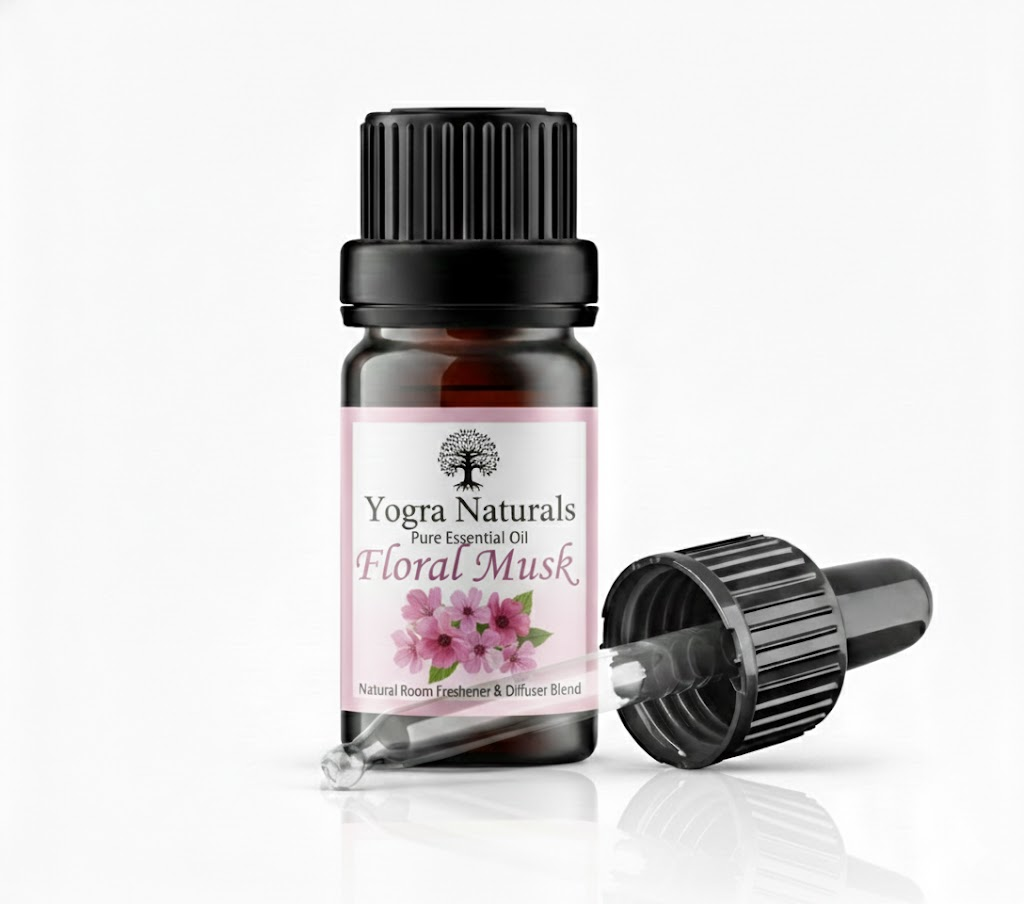
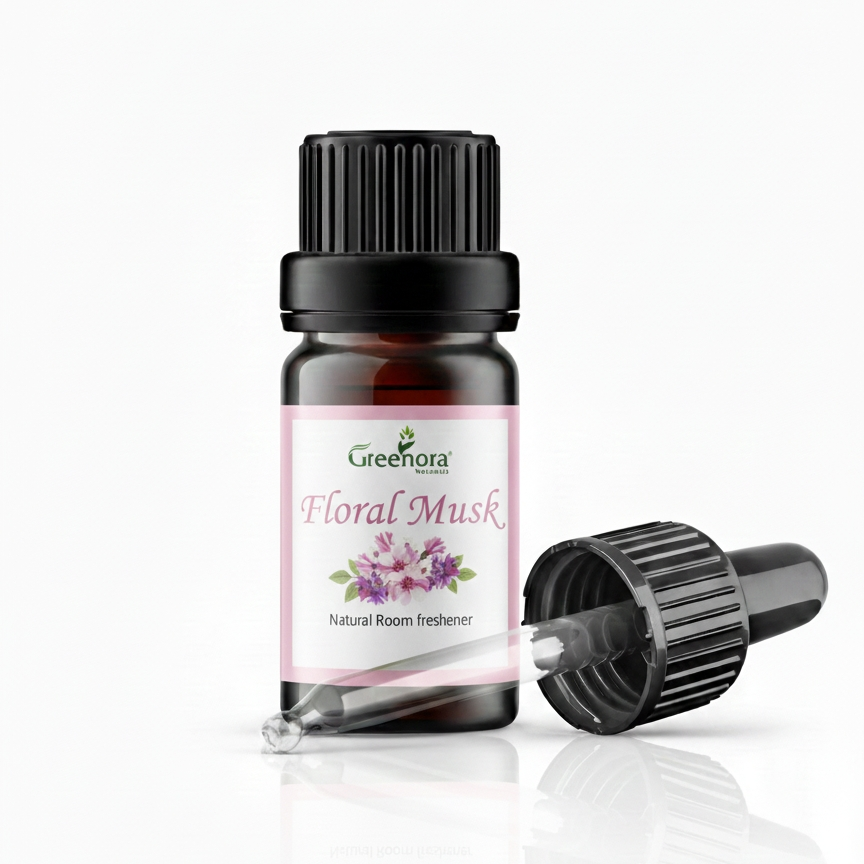
diffuser oil img changed

Changed region(s): [[0.2812, 0.0938, 0.9688, 0.9375]]

diff --git a/Diffuser oils/diffuser.html b/Diffuser oils/diffuser.html
@@ -67,7 +67,7 @@
   </div>
 
   <div class="info">
-    <div class="brand">YOGRA • Natural Essences</div>
+    <div class="brand">GREENORA • Natural Essences</div>
 
     <h3>Floral Musk Oil</h3>
 
@@ -116,7 +116,7 @@
   </div>
 
   <div class="info">
-    <div class="brand">YOGRA • Natural Essences</div>
+    <div class="brand">GREENORA • Natural Essences</div>
 
     <h3>Floral Oil</h3>
 
@@ -162,12 +162,12 @@
     <!-- 3 -->
 <div class="fragrance-card">
   <div class="imageWrap">
-    <img src="../Diffuser oils/Jasmine.jpg"
+    <img src="../Diffuser oils/Jasmin.jpg"
          alt="Jasmine Diffuser Oil">
   </div>
 
   <div class="info">
-    <div class="brand">YOGRA • Natural Essences</div>
+    <div class="brand">GREENORA • Natural Essences</div>
 
     <h3>Jasmine Diffuser Oil</h3>
 
@@ -213,12 +213,12 @@
     <!-- 4 -->
     <div class="fragrance-card">
   <div class="imageWrap">
-    <img src="../Diffuser oils/Lavender.jpg"
+    <img src="../Diffuser oils/lavender.jpg"
          alt="Lavender Diffuser Oil">
   </div>
 
   <div class="info">
-    <div class="brand">YOGRA • Natural Essences</div>
+    <div class="brand">GREENORA • Natural Essences</div>
 
     <h3>Lavender Diffuser Oil</h3>
 
@@ -264,12 +264,12 @@
     <!-- 5 -->
     <div class="fragrance-card">
   <div class="imageWrap">
-    <img src="../Diffuser oils/Lemon grass.jpg"
+    <img src="../Diffuser oils/lemon grass.jpg"
          alt="Lemongrass Diffuser Oil">
   </div>
 
   <div class="info">
-    <div class="brand">YOGRA • Natural Essences</div>
+    <div class="brand">GREENORA • Natural Essences</div>
 
     <h3>Lemongrass Diffuser Oil</h3>
 
@@ -315,12 +315,12 @@
     <!-- 6 -->
     <div class="fragrance-card">
   <div class="imageWrap">
-    <img src="../Diffuser oils/Lwmon cool.jpg"
+    <img src="../Diffuser oils/lemon cool.jpg"
          alt="Lemon Cool Diffuser Oil">
   </div>
 
   <div class="info">
-    <div class="brand">YOGRA • Natural Essences</div>
+    <div class="brand">GREENORA • Natural Essences</div>
 
     <h3>Lemon Cool Diffuser Oil</h3>
 
@@ -366,12 +366,12 @@
     <!-- 7 -->
     <div class="fragrance-card">
   <div class="imageWrap">
-    <img src="../Diffuser oils/Mandarin oil.jpg"
+    <img src="../Diffuser oils/Mandarin Oil.jpg"
          alt="Mandarin Diffuser Oil">
   </div>
 
   <div class="info">
-    <div class="brand">YOGRA • Natural Essences</div>
+    <div class="brand">GREENORA • Natural Essences</div>
 
     <h3>Mandarin Diffuser Oil</h3>
 
@@ -421,7 +421,7 @@
   </div>
 
   <div class="info">
-    <div class="brand">YOGRA • Natural Essences</div>
+    <div class="brand">GREENORA • Natural Essences</div>
 
     <h3>Rose Diffuser Oil</h3>
 

diff --git a/index.html b/index.html
@@ -59,11 +59,11 @@
 <!-- Mobile Menu -->
 <nav class="mobile-menu" id="mobileMenu">
   <div class="close-btn" id="closeMenu">&times;</div>
-  <a href="../YN/index.html#footer-logo">Home</a>
-  <a href="../YN/index.html#about">About</a>
-  <a href="../YN/index.html#products">Collections</a>
+  <a href="index.html#footer-logo">Home</a>
+  <a href="index.html#about">About</a>
+  <a href="index.html#products">Collections</a>
   <a href="PrivacyPolicy/privacy-policy.html">PrivacyPolicy</a>
-  <a href="PrivacyPolicy/privacy-policy.html#contact">Contact</a>
+  <a href="PrivacyPolicy/privacy-policy.html#8. Contact Us">Contact</a>
 </nav>
 
 <!-- HERO -->
@@ -168,7 +168,7 @@ Through strict quality control, sustainable sourcing, and continuous technologic
       <!-- 6 -->
       <article class="card reveal fade-right">
         <a href="Diffuser oils/diffuser.html">
-        <img src="Diffuser oils/diffucer oils main image.jpg" alt="Diffuser Oils">
+        <img src="Diffuser oils/Diffucer Oils Front image.jpg" alt="Diffuser Oils">
         </a>
         <h3>DIFFUSER OILS</h3>
         <p>Aromatic blends that refresh the air, reduce stress, and uplift mood.</p>
